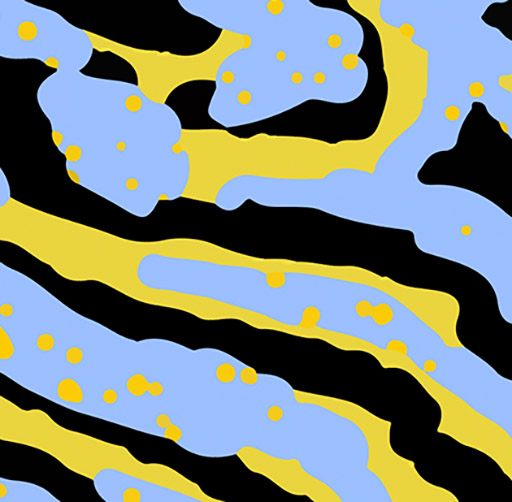
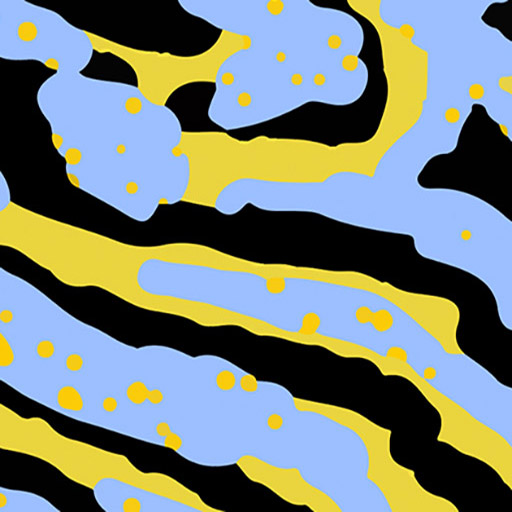
updated textures

diff --git a/js/app.js b/js/app.js
@@ -71,12 +71,12 @@ var TXTMaterialScale2 = [];
 
 
 for (let i = 0; i < txtArr.length; i++) {
-    let TMPtexture = THREE.ImageUtils.loadTexture(txtArr[i]);
+    let TMPtexture = new THREE.TextureLoader().load(txtArr[i]);
     TMPtexture.wrapS = TMPtexture.wrapT = THREE.RepeatWrapping;
     TMPtexture.offset.set(0, 0);
     TMPtexture.repeat.set(1, 1);
 
-    let TMPtextureScale2 = THREE.ImageUtils.loadTexture(txtArr[i]);
+    let TMPtextureScale2 = new THREE.TextureLoader().load(txtArr[i]);
     TMPtextureScale2.wrapS = TMPtextureScale2.wrapT = THREE.RepeatWrapping;
     TMPtextureScale2.offset.set(0, 0);
     TMPtextureScale2.repeat.set(0.5, 0.5);
@@ -117,7 +117,7 @@ var txtBoxSideArr = ['img/BOX-SIDE-01.jpg', 'img/BOX-SIDE-02.jpg', 'img/BOX-SIDE
 
 for (let i = 0; i < txtBoxSideArr.length; i++) {
     // Box side
-    let textureBoxSideArr = THREE.ImageUtils.loadTexture(txtBoxSideArr[i]);
+    let textureBoxSideArr = new THREE.TextureLoader().load(txtBoxSideArr[i]);
     textureBoxSideArr.wrapS = textureBoxSideArr.wrapT = THREE.RepeatWrapping;
     textureBoxSideArr.repeat.set(1, 0.666666);
     textureBoxSideArr.offset.set(0, 0.33333);
@@ -126,7 +126,7 @@ for (let i = 0; i < txtBoxSideArr.length; i++) {
         overdraw: true
     });
     // Box square
-    let textureBoxSQ = THREE.ImageUtils.loadTexture(txtBoxSideArr[i]);
+    let textureBoxSQ = new THREE.TextureLoader().load(txtBoxSideArr[i]);
     textureBoxSQ.wrapS = textureBoxSQ.wrapT = THREE.RepeatWrapping;
     textureBoxSQ.repeat.set(1, 0.333);
     textureBoxSQ.offset.set(0, 0);
@@ -398,10 +398,11 @@ function init() {
 }
 
 
-
+isAnimationOn = true;
 function exitAnimation() {
-    console.log('ending animation');
-    for (j = 0; j < BoxesNumber; j++) {
+    if (isAnimationOn)
+    {
+         for (j = 0; j < BoxesNumber; j++) {
         new TWEEN.Tween(meshArr[j].position).to({
                 z: -300
             }, 2000 + Math.random() * 4000)
@@ -411,8 +412,16 @@ function exitAnimation() {
                 y: 0,
                 x: 0
             }, 1000)
-            .easing(TWEEN.Easing.Elastic.Out).start();
+            .easing(TWEEN.Easing.Elastic.Out).start()
+            .onComplete(function() {
+  scene.remove(meshArr[j]);
+});
+            
+            
     }
+isAnimationOn = false;
+    } 
+   
 }
 
 
@@ -472,18 +481,18 @@ var prevMousePos = {
     y: 0
 };
 var changeToTriggerAnimation = 0.1;
+var mousePullStrength = 600;
 
 function onDocumentMouseMove(event) {
 
     if (!isMobile) {
 
-        // Experiment: get mouse positoin on every 100 move events
+        //get mouse positoin
 
         mouse.x = (event.clientX / renderer.domElement.clientWidth) * 2 - 1;
         mouse.y = -(event.clientY / renderer.domElement.clientHeight) * 2 + 1;
         // console.log(mouse.x, mouse.y)
-
-
+        // Change on 
         if (Math.abs(mouse.x - prevMousePos.x) > changeToTriggerAnimation || Math.abs(mouse.y - prevMousePos.y) > changeToTriggerAnimation) {
             prevMousePos.x = mouse.x;
             prevMousePos.y = mouse.y;
@@ -503,11 +512,10 @@ function onDocumentMouseMove(event) {
                 let currdistance = Math.sqrt(mouseRelations[j].x * mouseRelations[j].x + mouseRelations[j].y * mouseRelations[j].y);
 
 
-                let Influence = Math.pow(Math.max(1 - currdistance / 300, 0), 2);
+                let Influence = Math.pow(Math.max(1 - currdistance / mousePullStrength, 0), 2);
 
 
-                // Tween to change
-
+                // Tween to new position
                 new TWEEN.Tween(meshArr[j].position).to({
                         x: (meshArr[j].positionAfterResize.x + Influence * mouseRelations[j].y),
                         y: (meshArr[j].positionAfterResize.y + Influence * mouseRelations[j].x)
@@ -570,7 +578,7 @@ function animate() {
                 if (currdistance < 150) // all shapes gets the bounce rotation effect"
                 {
                     let CalcRoataionStage = Math.floor(mouseMoveInterval / currdistance); // the groth is exp (making more rotations when the pointer is near)
-                    CalcRoataionStage = Math.min(Math.max(CalcRoataionStage, 0), 8); // clamp number of rotations to 2 ()
+                    CalcRoataionStage = Math.min(Math.max(CalcRoataionStage, 0), 6); // clamp number of rotations to 2 ()
 
                     if (CalcRoataionStage != meshArr[j].rotationnum) // rotationnum keeps the current rotation position
                     {
@@ -617,3 +625,6 @@ function render() {
 let time = 0;
 init();
 animate();
+
+
+
